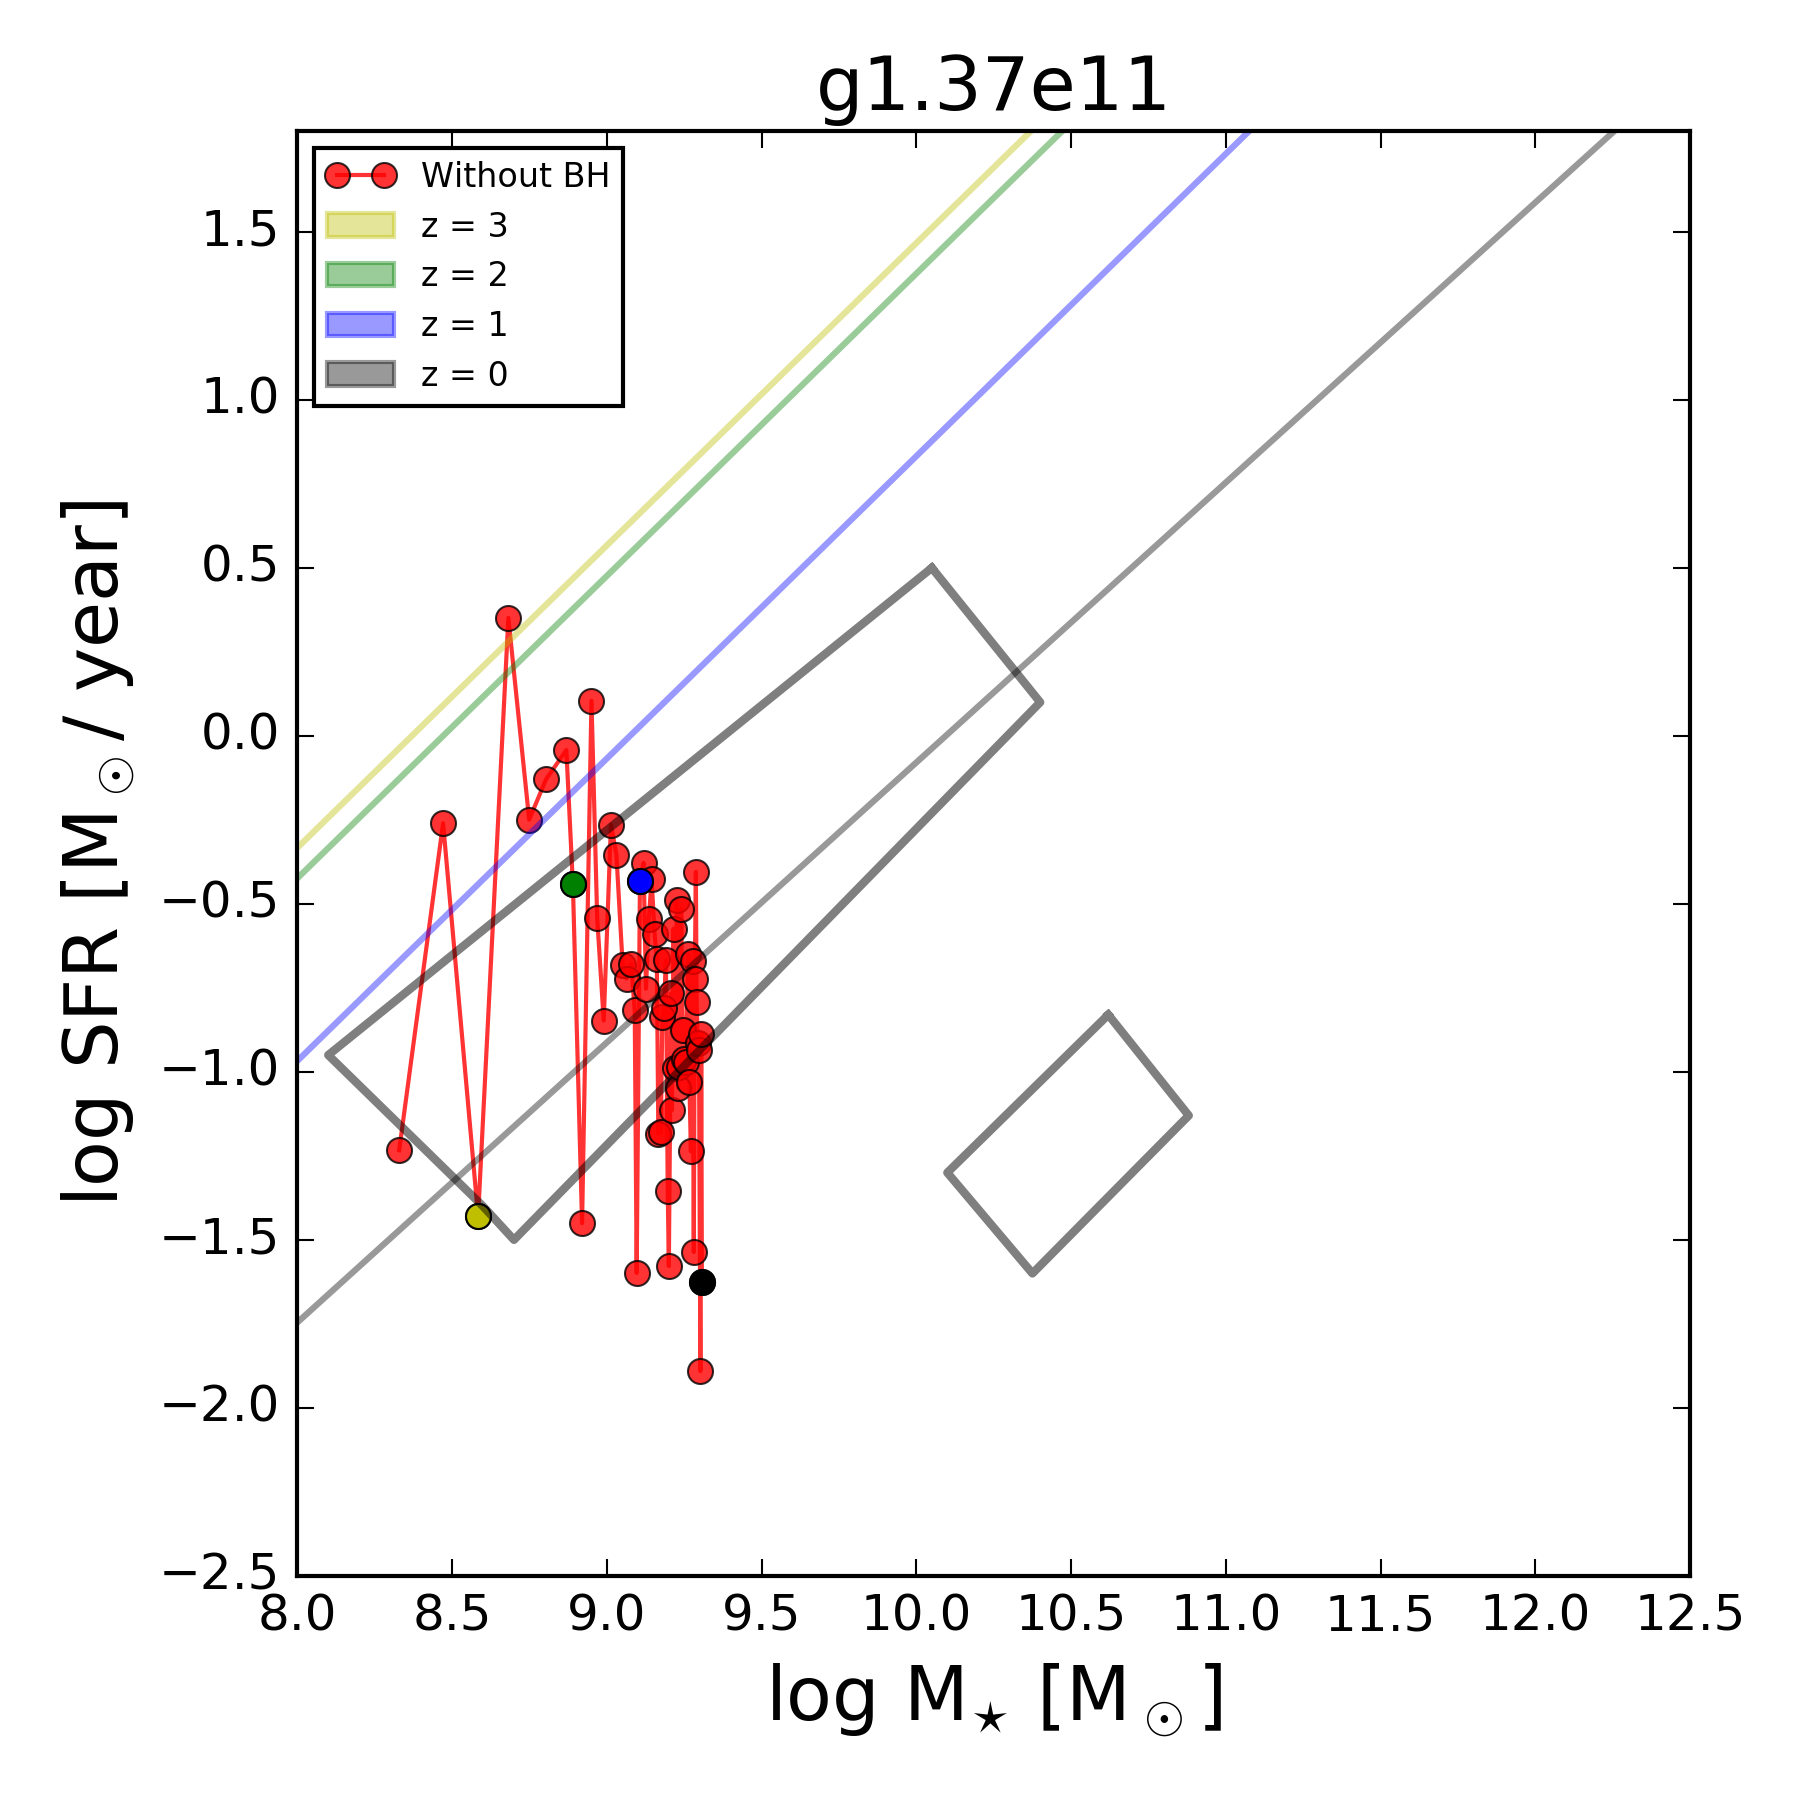
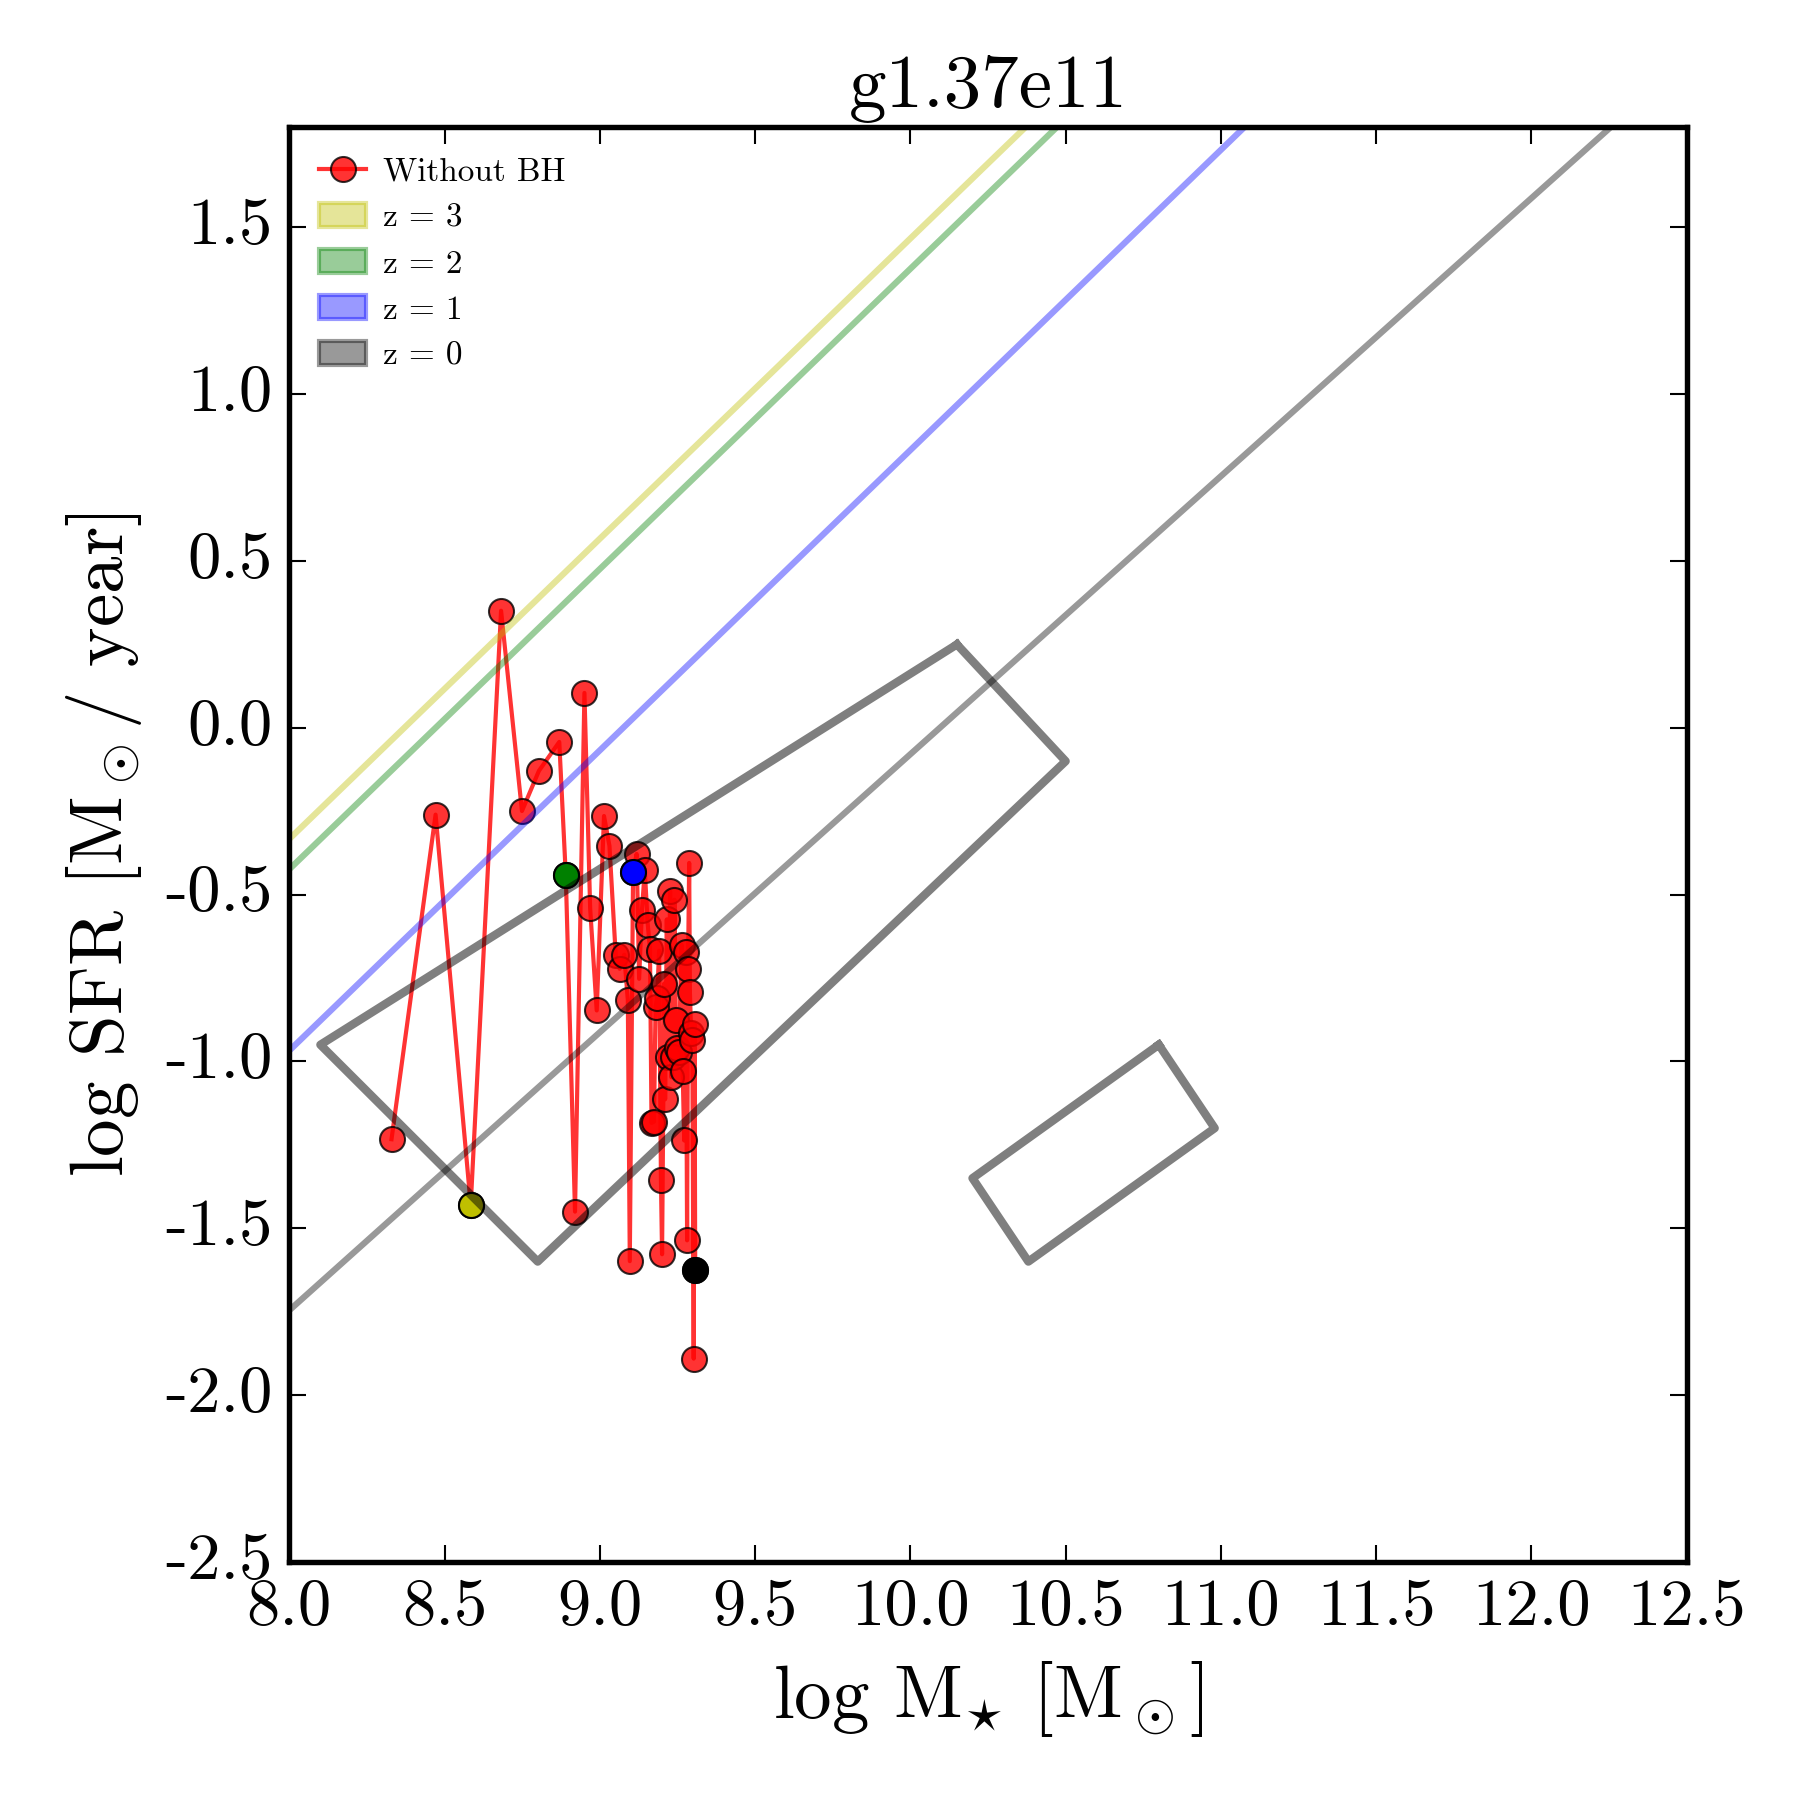
aesthetically improved

diff --git a/3_trackslogbefore.py b/3_trackslogbefore.py
@@ -8,6 +8,26 @@ import math
 import matplotlib.patches as mpatches
 import matplotlib.lines as mlines
 import copy
+import matplotlib as mpl
+mpl.rcParams['axes.linewidth'] = 1.3
+mpl.rcParams['xtick.labelsize'] = 16
+mpl.rcParams['ytick.labelsize'] = 16
+mpl.rcParams['axes.labelsize'] = 18
+mpl.rcParams['legend.numpoints'] = 1
+mpl.rcParams['legend.scatterpoints'] = 1
+mpl.rcParams['legend.fontsize'] = 14
+mpl.rcParams['legend.frameon'] = False
+mpl.rcParams['legend.handlelength'] = 1.4
+mpl.rcParams['legend.handletextpad'] = 0.5
+#mpl.rcParams['text.usetex'] = True
+mpl.rcParams['font.family'] = 'serif'
+mpl.rcParams['font.serif'] = 'cmr10'
+mpl.rcParams['mathtext.fontset'] = 'cm'
+#mpl.rcParams['mathtext.rm'] = 'serif'
+mpl.rcParams['pdf.fonttype'] = 42
+mpl.rcParams['ps.fonttype'] = 42
+mpl.rcParams['axes.unicode_minus']=False
+
 
 falconBase = '/home/lem507/2018/pickles/'
 #agngalDict = pickle.load(open('pickles/agnProperties.pkl', 'rb'))
@@ -117,13 +137,17 @@ for g in galaxies:
 
     #x2, y2 = monotonic_x(x2,y2)
     #draw high density rectangle for red sequence
-    x = [10.62, 10.88, 10.375, 10.1, 10.62]
-    y = [-0.83, -1.13, -1.6, -1.3, -0.83]
+
+    x = [10.8, 10.98, 10.38, 10.2, 10.8]
+    y = [-.95, -1.20, -1.6, -1.35, -.95]
     plt.plot(x,y, '-', color='k', linewidth=2, alpha =0.5)
-    #draw high density triangle for blue cloud
-    x = [ 10.05, 10.4, 8.7, 8.6, 8.1, 10.05] #3rd to last 10**8.25
-    y = [ 0.5, 0.1, -1.5, -1.4, -.95, 0.5] # 10**-1.25
+
+    #top left box
+    x = [ 10.15, 10.5, 8.8, 8.1, 10.15] #3rd to last 10**8.25
+    y = [ 0.25, -0.1, -1.6, -.95, 0.25] # 10**-1.25
     plt.plot(x,y, '-', color='k', linewidth=2, alpha = 0.5)
+
+
     #these are redshift 0.02 - 0.085
 
     for count, col in enumerate(colors[0:3]):

diff --git a/6_compaction.py b/6_compaction.py
@@ -5,13 +5,29 @@ import pynbody.analysis.profile as profile
 import glob, os, pickle
 import math
 import sys, ast
-
-
-
-
+import matplotlib as mpl
+mpl.rcParams['axes.linewidth'] = 1.3
+mpl.rcParams['xtick.labelsize'] = 16
+mpl.rcParams['ytick.labelsize'] = 16
+mpl.rcParams['axes.labelsize'] = 18
+mpl.rcParams['legend.numpoints'] = 1
+mpl.rcParams['legend.scatterpoints'] = 1
+mpl.rcParams['legend.fontsize'] = 14
+mpl.rcParams['legend.frameon'] = False
+mpl.rcParams['legend.handlelength'] = 1.4
+mpl.rcParams['legend.handletextpad'] = 0.5
+#mpl.rcParams['text.usetex'] = True
+mpl.rcParams['font.family'] = 'serif'
+mpl.rcParams['font.serif'] = 'cmr10'
+mpl.rcParams['mathtext.fontset'] = 'cm'
+#mpl.rcParams['mathtext.rm'] = 'serif'
+mpl.rcParams['pdf.fonttype'] = 42
+mpl.rcParams['ps.fonttype'] = 42
+mpl.rcParams['axes.unicode_minus']=False
 filename = '/scratch/database/nihao/nihao_classic/'
 galaxies = ['g1.12e12', 'g2.79e12']
 #galaxies = ['g4.90e11', 'g8.26e11', 'g5.38e11', 'g1.37e11']
+#galaxies = ['g4.90e11']
 if len(sys.argv) == 1:
     gal = raw_input('What galaxy do you want to plot')
 else:
@@ -45,6 +61,7 @@ for gal in galaxies:
     ax2.plot(pD['redshiftarray'], pD['outflowarray'], color="magenta", label="outflow")
     plt.legend(loc=4, fontsize="medium", frameon=False)
     ax2.set_ylim(10**(-1.5), 10**4.5)
+    ax2.set_ylim(10**(-4), 10**4.5)
     ax2.semilogy()
     ax1.set_ylabel(r"log M [[$M_{\odot}$]", fontsize=18)
     ax2.set_ylabel(r"log Mdot [$M_{\odot}$ / year]", fontsize=18)
@@ -67,6 +84,7 @@ for gal in galaxies:
     plt.ylabel(r'log sSFR [gyr$^-1$]', fontsize=18)
     plt.title(gal, fontsize=18)
     plt.xlim(7, 11)
+    plt.xlim(6, 11)
     plt.ylim(max(ssfrlog10) + 0.5, min(ssfrlog10) - 0.5)
     ax.grid(True)
     count = 0

diff --git a/5_histograms.py b/5_histograms.py
@@ -12,6 +12,29 @@ import json
 from scipy import stats
 from scipy.optimize import curve_fit
 from scipy.stats import linregress
+
+import matplotlib as mpl
+mpl.rcParams['axes.linewidth'] = 1.3
+mpl.rcParams['xtick.labelsize'] = 16
+mpl.rcParams['ytick.labelsize'] = 16
+mpl.rcParams['axes.labelsize'] = 18
+mpl.rcParams['legend.numpoints'] = 1
+mpl.rcParams['legend.scatterpoints'] = 1
+mpl.rcParams['legend.fontsize'] = 14
+mpl.rcParams['legend.frameon'] = False
+mpl.rcParams['legend.handlelength'] = 1.4
+mpl.rcParams['legend.handletextpad'] = 0.5
+#mpl.rcParams['text.usetex'] = True
+mpl.rcParams['font.family'] = 'serif'
+mpl.rcParams['font.serif'] = 'cmr10'
+mpl.rcParams['mathtext.fontset'] = 'cm'
+#mpl.rcParams['mathtext.rm'] = 'serif'
+mpl.rcParams['pdf.fonttype'] = 42
+mpl.rcParams['ps.fonttype'] = 42
+mpl.rcParams['axes.unicode_minus']=False
+
+
+
 #from redshifts import checkRedshifts
 fileLocation = '/scratch/database/nihao/gasoline2.1/'
 fileLocationELL = '/scratch/mb6605/NIHAO_ELL_BH/'

diff --git a/2_mssfrWandWobh.py b/2_mssfrWandWobh.py
@@ -143,6 +143,8 @@ popt, pcov = curve_fit(func, mstarAll, sfrAll)
 SFR0 = popt[0]
 slope = popt[1]
 '''
+
+'''
 x = [10.62, 10.88, 10.375, 10.1, 10.62]
 y = [-0.83, -1.13, -1.6, -1.3, -0.83]
 #plt.plot(x,y, '-', color='k', linewidth=2, alpha =0.5)
@@ -150,16 +152,16 @@ y = [-0.83, -1.13, -1.6, -1.3, -0.83]
 x = [ 10.05, 10.4, 8.7, 8.6, 8.1, 10.05] #3rd to last 10**8.25
 y = [ 0.5, 0.1, -1.5, -1.4, -.95, 0.5] # 10**-1.25
 plt.plot(x,y, '-', color='k', linewidth=2, alpha =0.5)
-
+'''
 #bottom right box
 #
 x = [10.8, 10.98, 10.38, 10.2, 10.8]
-y = [-.95, -1.28, -1.6, -1.35, -.95]
+y = [-.95, -1.20, -1.6, -1.35, -.95]
 plt.plot(x,y, '-', color='k', linewidth=2, alpha =0.5)
 
 #top left box
-x = [ 10.05, 10.4, 9.0, 8.1, 10.05] #3rd to last 10**8.25
-y = [ 0.15, -0.1, -1.6, -.95, 0.15] # 10**-1.25
+x = [ 10.15, 10.5, 8.8, 8.1, 10.15] #3rd to last 10**8.25
+y = [ 0.25, -0.1, -1.6, -.95, 0.25] # 10**-1.25
 plt.plot(x,y, '-', color='k', linewidth=2, alpha = 0.5)
 
 

diff --git a/4_del_sfr_2gals.py b/4_del_sfr_2gals.py
@@ -12,6 +12,25 @@ import json
 from scipy import stats
 from scipy.optimize import curve_fit
 from scipy.stats import linregress
+import matplotlib as mpl
+mpl.rcParams['axes.linewidth'] = 1.3
+mpl.rcParams['xtick.labelsize'] = 16
+mpl.rcParams['ytick.labelsize'] = 16
+mpl.rcParams['axes.labelsize'] = 18
+mpl.rcParams['legend.numpoints'] = 1
+mpl.rcParams['legend.scatterpoints'] = 1
+mpl.rcParams['legend.fontsize'] = 14
+mpl.rcParams['legend.frameon'] = False
+mpl.rcParams['legend.handlelength'] = 1.4
+mpl.rcParams['legend.handletextpad'] = 0.5
+#mpl.rcParams['text.usetex'] = True
+mpl.rcParams['font.family'] = 'serif'
+mpl.rcParams['font.serif'] = 'cmr10'
+mpl.rcParams['mathtext.fontset'] = 'cm'
+#mpl.rcParams['mathtext.rm'] = 'serif'
+mpl.rcParams['pdf.fonttype'] = 42
+mpl.rcParams['ps.fonttype'] = 42
+mpl.rcParams['axes.unicode_minus']=False
 
 fileLocation = '/scratch/database/nihao/gasoline2.1/'
 fileLocationELL = '/scratch/mb6605/NIHAO_ELL_BH/'
